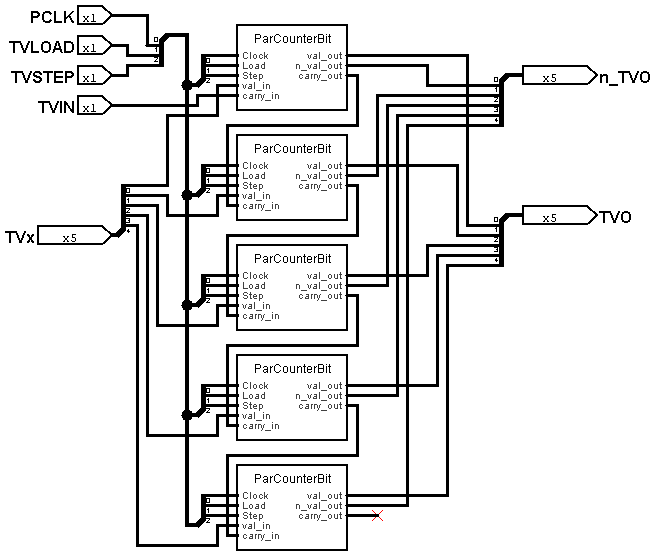
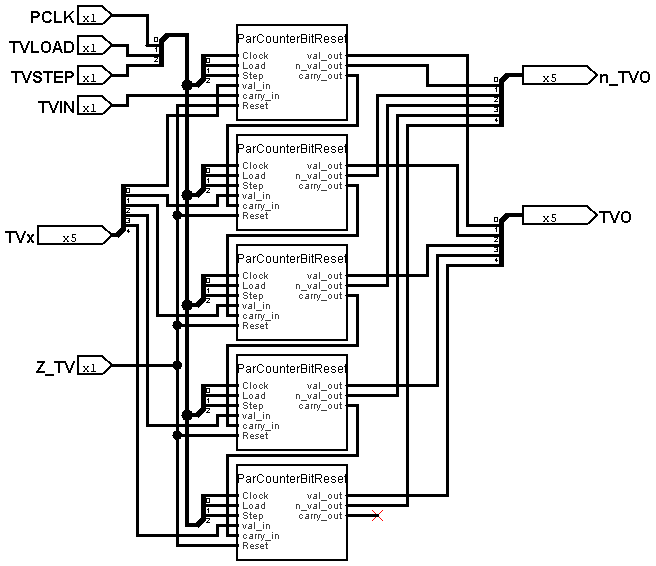
PAR_CounterBitReset

diff --git a/BreakingNESWiki/PPU/par.md b/BreakingNESWiki/PPU/par.md
@@ -37,6 +37,10 @@
 
 ![PAR_CounterBit](/BreakingNESWiki/imgstore/ppu/PAR_CounterBit.png)
 
+Для счётчика TV используется вариация со сбросом:
+
+![PAR_CounterBitReset](/BreakingNESWiki/imgstore/ppu/PAR_CounterBitReset.png)
+
 ### Счётчик FV
 
 ![ppu_dataread_par_counters_fv](/BreakingNESWiki/imgstore/ppu/ppu_par_counters_fv.jpg)

diff --git a/BreakingNESWiki_DeepL/PPU/par.md b/BreakingNESWiki_DeepL/PPU/par.md
@@ -37,6 +37,10 @@ Counter operating modes:
 
 ![PAR_CounterBit](/BreakingNESWiki/imgstore/ppu/PAR_CounterBit.png)
 
+A reset variation is used for the TV counter:
+
+![PAR_CounterBitReset](/BreakingNESWiki/imgstore/ppu/PAR_CounterBitReset.png)
+
 ### FV Counter
 
 ![ppu_dataread_par_counters_fv](/BreakingNESWiki/imgstore/ppu/ppu_par_counters_fv.jpg)
